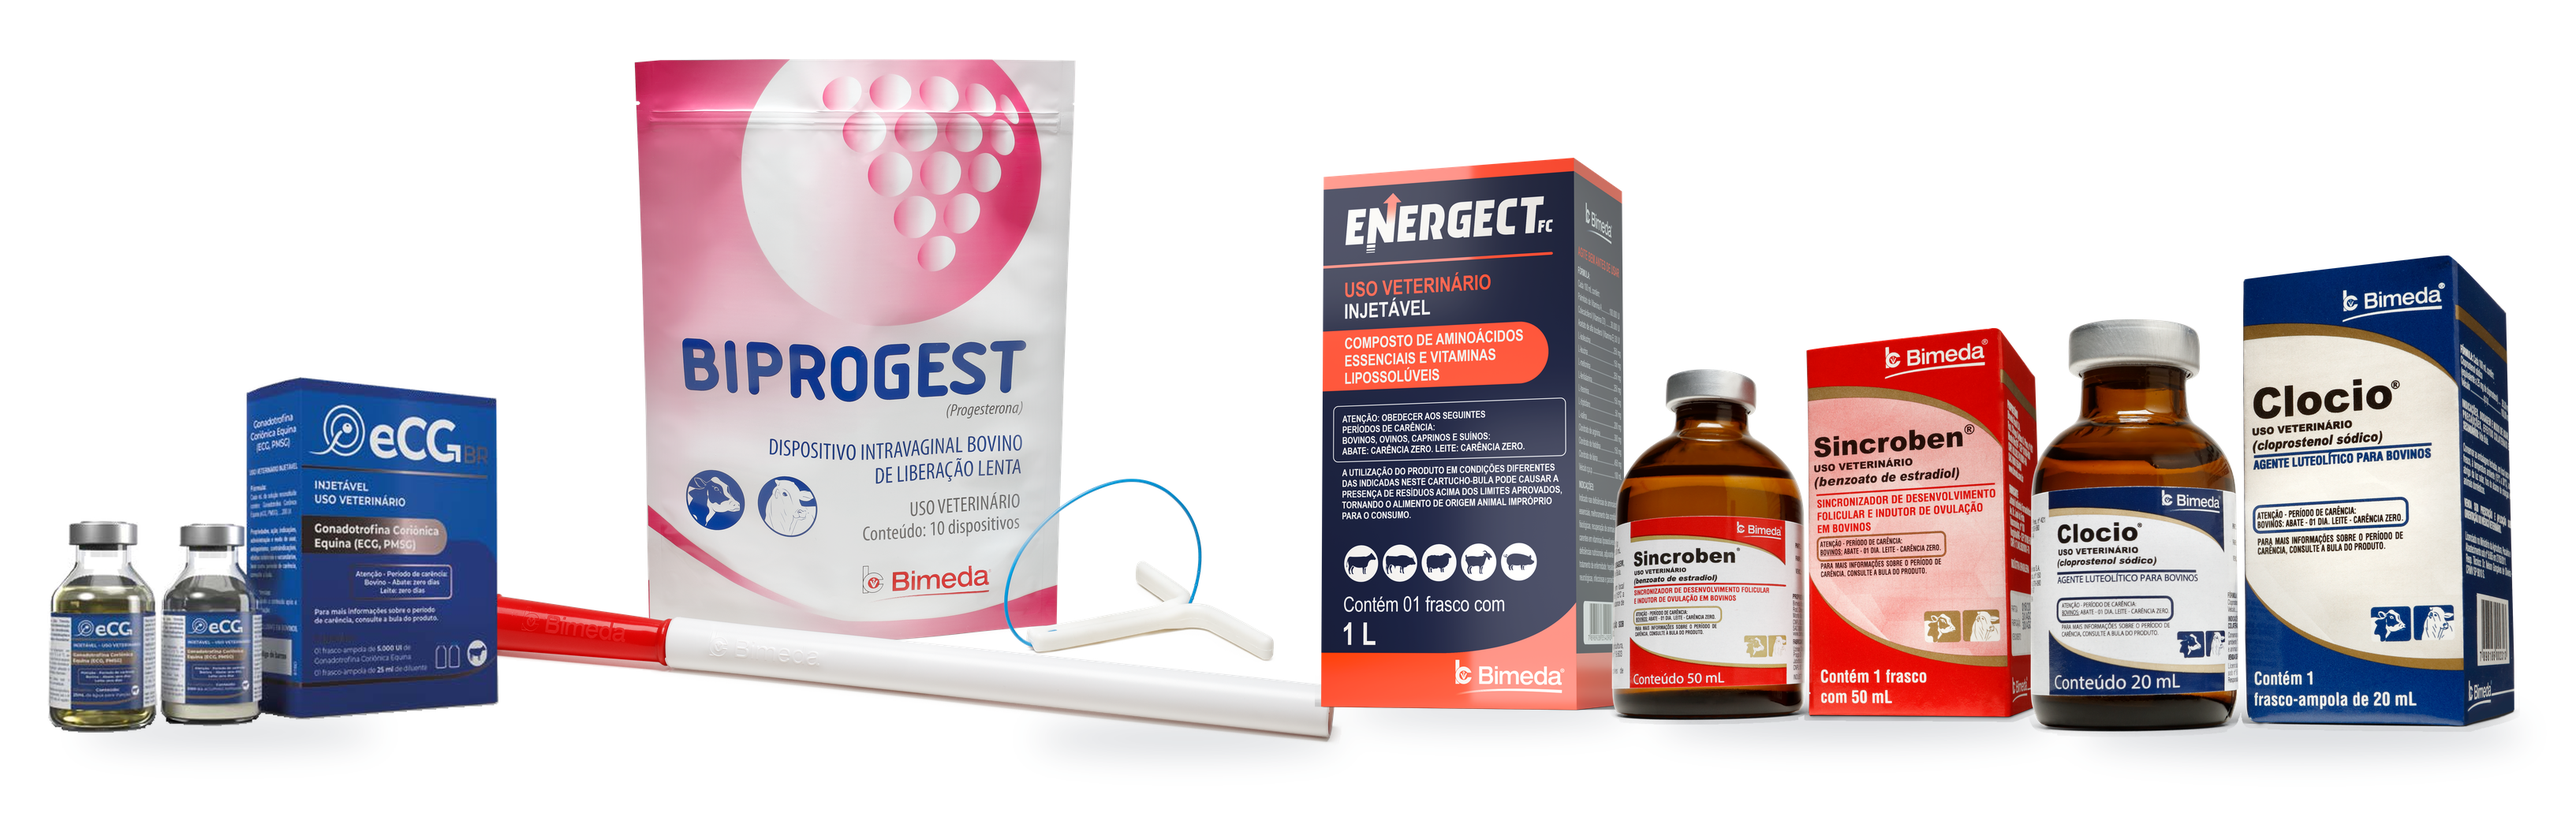
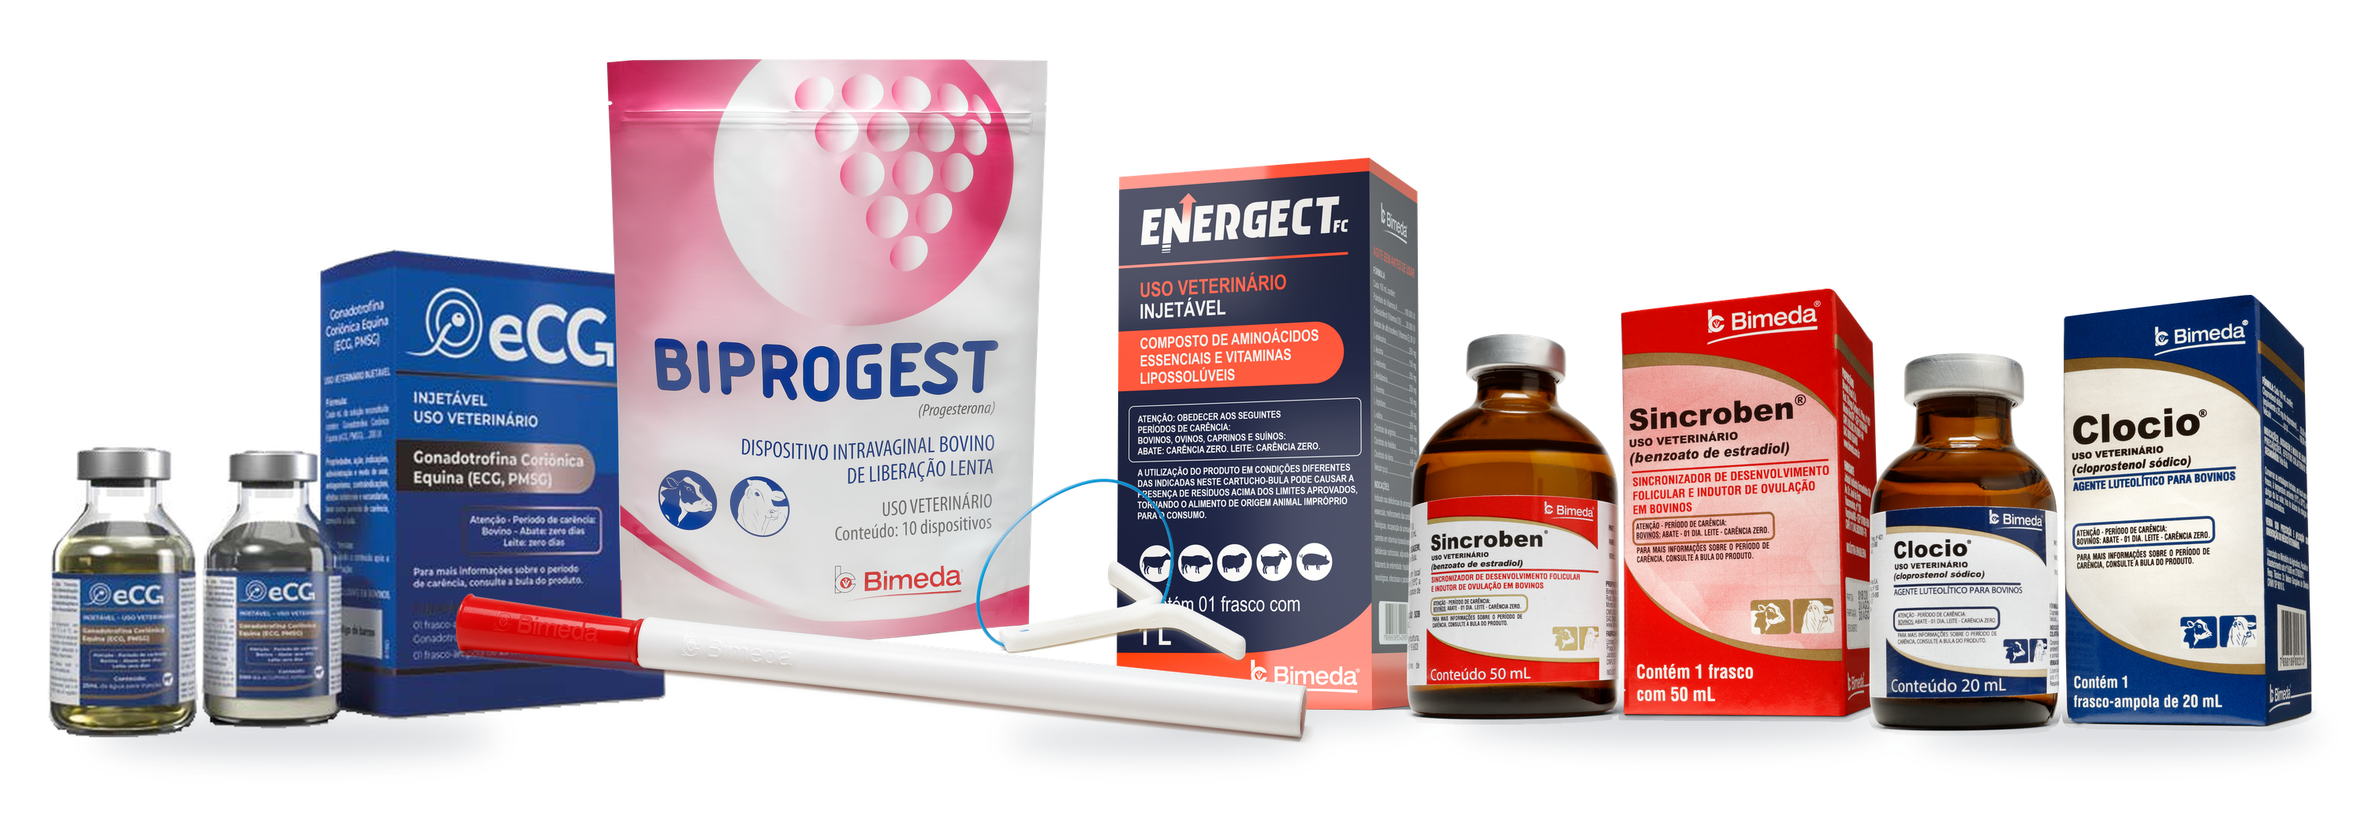
Recompoe a foto de familia em profundidade, a pedido do cliente
O cliente rejeitou a v3 (silhueta em fileira, sem gap): eCG estava
pequeno demais e deveria ficar atras do Biprogest, Energect tambem
deveria ficar atras, Sincroben e Clocio deveriam ter o mesmo tamanho.

Mudancas:

1. Biprogest passa a ser o produto-heroi, centralizado. eCG e Energect
   ficam de proposito atras dele, nao lado a lado. Isso exigiu uma forma
   de posicionar diferente do encaixe por silhueta: aqui eu QUERO que as
   silhuetas se sobreponham (o Biprogest, pintado por cima, cobre a
   parte de tras), entao o encaixe por silhueta (que existe pra EVITAR
   colisao) e o oposto do que precisa acontecer. Troquei por
   deslocamento explicito pra essas duas pecas.
2. A primeira tentativa desse deslocamento usou a largura da caixa
   delimitadora do Biprogest como referencia da borda do saco, e errou
   feio: a caixa inclui o aplicador, que e bem mais largo que o saco em
   si (confirmado medindo: saco real vai de x=201 a x=758 numa caixa de
   1109px). Sem essa correcao, o Energect aparecia flutuando na frente
   do Biprogest, sem cobertura nenhuma. A funcao borda_saco mede a borda
   real do corpo do saco (top 60% da altura, onde o aplicador nao chega).
3. As constantes de sobreposicao (ECG_VISIVEL_PX, ENERGECT_ESCONDIDO_FRAC)
   foram calibradas visualmente: primeira tentativa escondeu a logo
   inteira do eCG e o "ENER" do Energect, ilegivel. Ajustado ate os dois
   rotulos lerem por inteiro, escondido so o suficiente pra ler como
   atras e nao do lado.
[…]

diff --git a/index.html b/index.html
@@ -193,7 +193,7 @@
         <source srcset="assets/img/produtos-familia.webp" type="image/webp">
         <img src="assets/img/produtos-familia.png"
              alt="eCG BR, Biprogest, Energect FC, Sincroben e Clocio, linha Bimeda Reprodução"
-             width="3266" height="1050" loading="lazy">
+             width="3008" height="1050" loading="lazy">
       </picture>
     </div>
 

diff --git a/tools/monta-foto-familia.py b/tools/monta-foto-familia.py
@@ -19,20 +19,26 @@ compor os produtos reais por cima, descartado por deixar a composicao
 final e 100% compositing de pixel real, sem generativa nenhuma tocando
 produto.
 
-Posicionamento: nao ha numero magico de espacamento por par (isso ja foi
-tentado e gerou vao morto enorme entre Biprogest e Energect, porque a
-largura da caixa delimitadora do Biprogest inclui o aplicador, um apendice
-fino e diagonal, bem mais largo que o saco em si). Em vez disso, cada
-produto e encostado no anterior calculando, linha por linha no eixo Y do
-canvas final, a borda visual real da silhueta de cada um (ver
-`perfil_esq_dir`), com uma unica constante `GAP` de sobreposicao leve,
-igual para todo par. O resultado e produtos encostados como numa mesa de
-verdade, sem gap arbitrario e sem numero ajustado no olho por peca.
+Composicao: o Biprogest e o produto-heroi, centralizado. eCG e Energect
+ficam DE PROPOSITO atras dele (sobreposicao explicita, nao por evitar
+colisao: o Biprogest, pintado por cima, cobre a parte de tras). Sincroben
+e Clocio ficam no mesmo tamanho, encostados um no outro na frente, a
+direita, usando o encaixe por silhueta (esse sim evita colisao de
+verdade: calcula, linha por linha no eixo Y do canvas final, a borda
+visual real de cada produto, e nao a largura da caixa delimitadora, que
+para pecas com apendice fino e diagonal como o aplicador do Biprogest e
+bem maior que o produto em si).
 
-Proporcao entre os produtos: nao inventada. Vem da propria foto que a
-Bimeda ja aprovou (a que estava no ar antes desta rodada), medida por
-altura solida de cada cartucho. O eCG, que nao existia naquela foto, e a
-unica estimativa visual do script.
+As constantes ECG_VISIVEL_PX e ENERGECT_ESCONDIDO_FRAC foram calibradas
+olhando o resultado: visivel o bastante pra ler "eCG" e "ENERGECT FC"
+por inteiro, escondido o bastante pra ler como "atras" e nao "do lado".
+
+Proporcao entre os produtos: nao inventada, exceto onde o cliente pediu
+o contrario. Biprogest, Energect e a proporcao original vem da propria
+foto que a Bimeda ja aprovou antes desta rodada, medida por altura solida
+de cada cartucho. Sincroben e Clocio, que naquela foto tinham tamanhos
+diferentes, foram igualados a pedido do cliente. O eCG, que nao existia
+naquela foto, e a unica estimativa visual do script.
 
 Para regerar:
     python3 tools/monta-foto-familia.py
@@ -47,20 +53,21 @@ SAIDA = os.path.join(AQUI, '..', 'assets', 'img')
 
 H, BASE = 1050, 900
 REF_H = 700   # altura de referencia do Energect na arte final, em px
-GAP = -16     # negativo = leve sobreposicao de contato entre pecas vizinhas, mesma pra todo par
 
-# alturas medidas na foto ja aprovada pelo cliente (energect = referencia 601px = 1.0)
-#   biprogest 708/601=1.178 | clocio-caixa 512/601=0.852 | sincroben-caixa 426/601=0.709
-PECAS = [
-  # chave        arquivo                                                                 razao  avanco
-  ('ecg',        os.path.join(AQUI, 'ecg-recorte-limpo.png'),                            0.62,   14),
-  ('biprogest',  B+'/imagens/produtos/Biprogest/Embalagem + Produto Biprogest.png',       1.178,   0),
-  ('energect',   B+'/materiais enviados/2025/Energect/Materiais do Folheto Energect/'
-                   'Cartucho - Energect FC 1000 mL - Direita.png',                       1.000,   0),
-  ('sincroben',  B+'/imagens/produtos/Sincroben/Frasco + Cartucho - Sincroben 50 mL.png', 0.709,  12),
-  ('clocio',     B+'/imagens/produtos/Clocio/Frasco + Cartucho - Clocio 20 mL.png',       0.852,  20),
-]
-ORDEM_Z = ['biprogest', 'energect', 'ecg', 'sincroben', 'clocio']
+# chave -> (arquivo, razao de altura relativa ao Energect, avanco vertical em px)
+PECAS = {
+  'ecg':       (os.path.join(AQUI, 'ecg-recorte-limpo.png'), 0.85, 14),
+  'biprogest': (B+'/imagens/produtos/Biprogest/Embalagem + Produto Biprogest.png', 1.178, 0),
+  'energect':  (B+'/materiais enviados/2025/Energect/Materiais do Folheto Energect/'
+                  'Cartucho - Energect FC 1000 mL - Direita.png', 1.000, 0),
+  'sincroben': (B+'/imagens/produtos/Sincroben/Frasco + Cartucho - Sincroben 50 mL.png', 0.78, 12),
+  'clocio':    (B+'/imagens/produtos/Clocio/Frasco + Cartucho - Clocio 20 mL.png', 0.78, 20),
+}
+ECG_VISIVEL_PX = 710             # quanto do eCG fica visivel a esquerda do biprogest
+ENERGECT_ESCONDIDO_FRAC = 0.27   # fracao do energect que fica atras do biprogest
+GAP_FRENTE = -16                 # leve sobreposicao de contato entre pecas da frente (sincroben/clocio)
+
+ORDEM_Z = ['ecg', 'energect', 'biprogest', 'sincroben', 'clocio']  # pintura: ultimo = mais na frente
 
 def carregar_sem_tocar(path):
     """Recorte lossless (so bbox do alfa). Nenhum pixel de produto e alterado aqui."""
@@ -75,6 +82,15 @@ def cartucho(im):
     cols = np.where(tops <= tops.min() + 0.10*Hd)[0]
     ys = np.where(a[:, cols.min():cols.max()+1].any(axis=1))[0]
     return int(ys.min()), int(ys.max())
+
+def borda_saco(im, frac_topo=0.6):
+    """Borda esquerda e direita reais do corpo principal do saco do Biprogest
+    (sem o apendice fino do aplicador, que fica so na parte de baixo e alarga
+    a caixa delimitadora bem mais que o produto em si)."""
+    a = np.array(im)[:, :, 3] > 190
+    topo = a[:round(im.height*frac_topo)]
+    cols = np.where(topo.any(axis=0))[0]
+    return int(cols.min()), int(cols.max())
 
 def sombra_segura(im, protecao_px):
     """Apaga a sombra de estudio solta, sem nunca reduzir alfa de nada que
@@ -108,8 +124,7 @@ def perfil_esq_dir(im):
     """Para cada linha local (y), a coluna mais a esquerda e mais a direita
     com pixel opaco, ou -1 se a linha nao tem conteudo. E o que permite
     encostar duas silhuetas de verdade em vez de usar a largura da caixa
-    delimitadora, que para pecas com apendice fino (como o aplicador do
-    Biprogest) e bem maior que o produto em si."""
+    delimitadora."""
     a = np.array(im)[:, :, 3] > 190
     esq = np.full(im.height, -1, dtype=int)
     dir_ = np.full(im.height, -1, dtype=int)
@@ -120,26 +135,11 @@ def perfil_esq_dir(im):
             dir_[y] = xs.max()
     return esq, dir_
 
-unidades = []
-for chave, path, razao, avanco in PECAS:
-    im_orig = carregar_sem_tocar(path)
-    protecao = max(6, round(im_orig.height * 0.012))
-    im = sombra_segura(im_orig, protecao)
-    top, bot = cartucho(im)
-    alvo = REF_H * razao
-    k = alvo / (bot - top)
-    im2 = im.resize((max(1, round(im.width*k)), max(1, round(im.height*k))), Image.LANCZOS)
-    cart_bot = round(bot*k)
-    oy = BASE + avanco - cart_bot   # deslocamento vertical desta peca no canvas
-    esq, dir_ = perfil_esq_dir(im2)
-    unidades.append(dict(chave=chave, im=im2, oy=oy, esq=esq, dir_=dir_))
-    print(f'{chave:10s} razao={razao:.3f}  tamanho final {im2.size}')
-
-# encaixa cada peca na anterior usando o perfil real, linha por linha, em coordenadas de canvas
-MARGEM = 60
-unidades[0]['x'] = MARGEM
-for i in range(1, len(unidades)):
-    prev, cur = unidades[i-1], unidades[i]
+def encaixar(prev, cur, gap):
+    """Posiciona `cur` encostando na silhueta real de `prev`, sem colidir:
+    calcula, linha por linha, o deslocamento minimo que respeita `gap`
+    (negativo = leve sobreposicao) em toda a faixa de Y onde os dois tem
+    conteudo."""
     y0 = max(prev['oy'], cur['oy'])
     y1 = min(prev['oy'] + len(prev['dir_']), cur['oy'] + len(cur['esq']))
     dx = None
@@ -148,21 +148,61 @@ for i in range(1, len(unidades)):
         ce = cur['esq'][y - cur['oy']]
         if pd < 0 or ce < 0:
             continue
-        necessario = (prev['x'] + pd + GAP) - ce
+        necessario = (prev['x'] + pd + gap) - ce
         dx = necessario if dx is None else max(dx, necessario)
-    if dx is None:
-        dx = prev['x'] + prev['im'].width + GAP
-    cur['x'] = dx
+    return dx if dx is not None else prev['x'] + prev['im'].width + gap
 
-ultimo = unidades[-1]
-W = ultimo['x'] + ultimo['im'].width + MARGEM
+unidades = {}
+for chave, (path, razao, avanco) in PECAS.items():
+    im_orig = carregar_sem_tocar(path)
+    protecao = max(6, round(im_orig.height * 0.012))
+    im = sombra_segura(im_orig, protecao)
+    top, bot = cartucho(im)
+    alvo = REF_H * razao
+    k = alvo / (bot - top)
+    im2 = im.resize((max(1, round(im.width*k)), max(1, round(im.height*k))), Image.LANCZOS)
+    cart_bot = round(bot*k)
+    oy = BASE + avanco - cart_bot
+    esq, dir_ = perfil_esq_dir(im2)
+    unidades[chave] = dict(chave=chave, im=im2, oy=oy, esq=esq, dir_=dir_)
+    print(f'{chave:10s} razao={razao:.3f}  tamanho final {im2.size}')
+
+MARGEM = 60
+biprogest = unidades['biprogest']
+saco_esq, saco_dir = borda_saco(biprogest['im'])
+
+# biprogest: reserva espaco a esquerda para o eCG espiar ate a borda real do saco
+biprogest['x'] = MARGEM + ECG_VISIVEL_PX - saco_esq
+
+# eCG: sobreposicao explicita ate a borda real do saco, ele fica atras (pintado antes)
+ecg = unidades['ecg']
+pouch_esq = biprogest['x'] + saco_esq
+ecg['x'] = pouch_esq - ECG_VISIVEL_PX
+
+# energect: sobreposicao explicita do outro lado, tambem pela borda real do saco
+pouch_dir = biprogest['x'] + saco_dir
+energect = unidades['energect']
+energect['x'] = pouch_dir - round(energect['im'].width * ENERGECT_ESCONDIDO_FRAC)
+
+# sincroben, clocio: encaixe por silhueta (evita colisao de verdade), a frente
+sincroben = unidades['sincroben']
+sincroben['x'] = encaixar(energect, sincroben, GAP_FRENTE)
+clocio = unidades['clocio']
+clocio['x'] = encaixar(sincroben, clocio, GAP_FRENTE)
+
+xmax = max(u['x'] + u['im'].width for u in unidades.values())
+xmin = min(u['x'] for u in unidades.values())
+DESLOC = MARGEM - xmin
+for u in unidades.values():
+    u['x'] += DESLOC
+W = xmax + DESLOC + MARGEM
 
 canvas = Image.new('RGBA', (W, H), (255, 255, 255, 255))
 
 # sombra de contato procedural, unica luz, mesma pra todos os produtos
 sh = Image.new('L', (W, H), 0)
 d = ImageDraw.Draw(sh)
-for u in unidades:
+for u in unidades.values():
     im, x0 = u['im'], u['x']
     a = np.array(im)[:, :, 3] > 190
     ys = np.where(a.any(axis=1))[0]
@@ -182,7 +222,7 @@ sh = sh.point(lambda v: int(v*0.20))
 canvas.paste(Image.new('RGBA', (W, H), (58, 68, 86, 255)), (0, 0), sh)
 
 for chave in ORDEM_Z:
-    u = next(u for u in unidades if u['chave'] == chave)
+    u = unidades[chave]
     canvas.alpha_composite(u['im'], (u['x'], u['oy']))
 
 canvas = canvas.crop((0, 0, W, H))

diff --git a/README.md b/README.md
@@ -98,18 +98,28 @@ O que o script resolve:
 
 - **Ordem.** Os produtos aparecem na mesma sequência do texto da seção e das seções da página:
   eCG BR, Biprogest, Energect FC, Sincroben, Clocio.
-- **Escala.** As alturas relativas não são inventadas: vêm da própria foto que a Bimeda já aprovou
-  (a que estava no ar antes desta rodada), medidas por altura sólida de cada cartucho. O eCG, que
-  não existia naquela foto, é a única estimativa visual do script.
+- **Composição em profundidade, não numa fileira só.** O Biprogest é o produto-herói, centralizado
+  e na frente. eCG e Energect ficam de propósito atrás dele (o Biprogest, pintado por cima, cobre a
+  parte de trás de cada um), não lado a lado com vão vazio entre eles. Sincroben e Clocio, no mesmo
+  tamanho, ficam encostados um no outro na frente, à direita.
+- **Duas formas de posicionar, cada uma para o problema certo.** Para eCG e Energect (que devem
+  ficar atrás, com sobreposição de propósito) o script usa deslocamento explícito, calculado pela
+  borda real do corpo do saco do Biprogest (função `borda_saco`), não pela caixa delimitadora, que
+  inclui o aplicador e é bem mais larga que o saco em si. Para Sincroben e Clocio (que devem só se
+  tocar, sem colidir) o script usa encaixe por silhueta (`encaixar`): calcula, linha por linha no
+  eixo Y do canvas final, a borda visual real de cada produto. As constantes `ECG_VISIVEL_PX` e
+  `ENERGECT_ESCONDIDO_FRAC` foram calibradas olhando o resultado, visível o bastante pra ler "eCG"
+  e "ENERGECT FC" por inteiro, escondido o bastante pra ler como atrás e não do lado.
+- **Escala.** Biprogest e Energect vêm da própria foto que a Bimeda já aprovou (a que estava no ar
+  antes desta rodada), medida por altura sólida de cada cartucho. Sincroben e Clocio, que tinham
+  tamanhos diferentes naquela foto, foram igualados a pedido do cliente. O eCG, que não existia
+  naquela foto, é a única estimativa visual do script, aumentado nesta rodada porque tinha ficado
+  pequeno demais.
 - **Sombra.** Cada pack shot vem do Drive com a sombra de estúdio do próprio ensaio gravada no
   arquivo, cada ensaio com uma luz diferente. A função `sombra_segura` apaga essa sombra solta sem
   nunca tocar em nada a menos de um halo de proteção ao redor de qualquer pixel opaco do produto,
   isso é o que garante que texto e detalhe fino nunca são cortados por engano. Por cima entra uma
   única sombra de contato procedural, a mesma luz para todos os produtos.
-- **Aplicador do Biprogest.** Ficou dentro desta vez (na primeira tentativa da rodada anterior tinha
-  sido cortado). Ele é a peça mais larga do grupo, então o espaçamento entre Biprogest e Energect
-  precisa ser bem mais fechado que os outros (`folga: -330`) para compensar o vão vazio à direita da
-  bolsa, onde só o cabo fino do aplicador passa.
 
 ## Conteúdo
 
